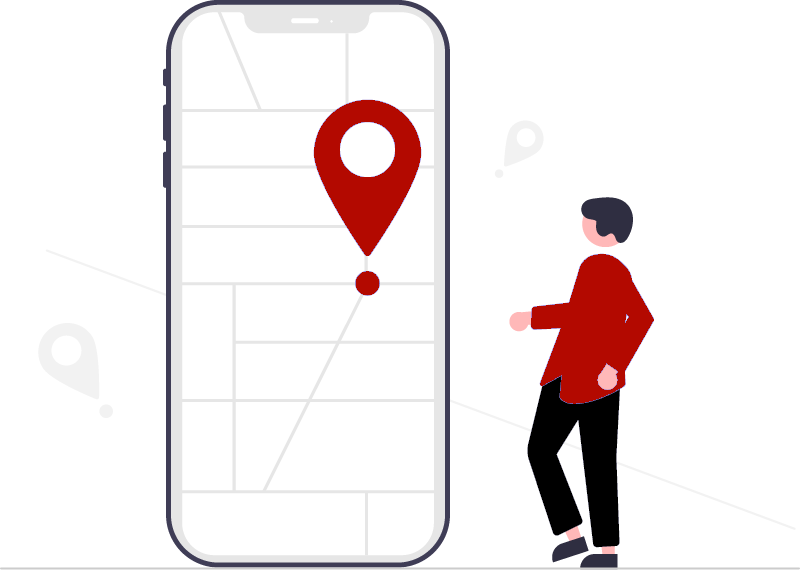
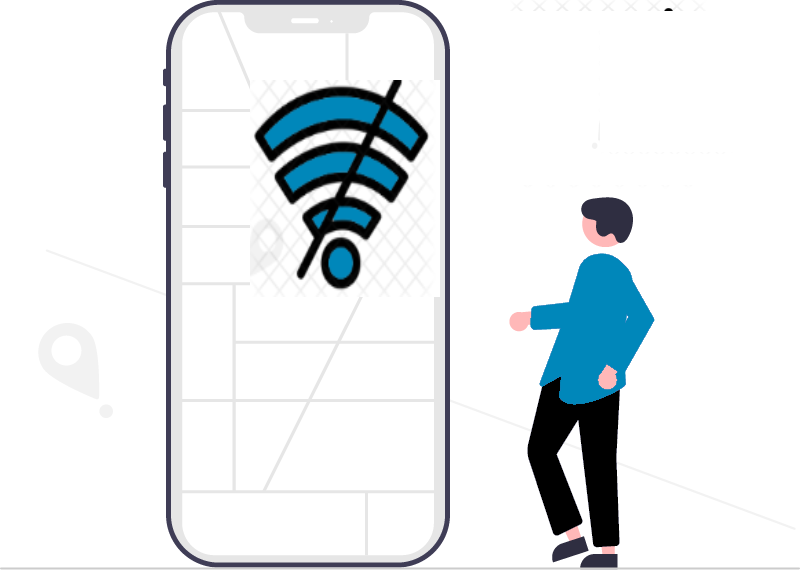
cambio en slides

Changed region(s): [[0.3125, 0.1193, 0.5625, 0.5368], [0.6562, 0.4474, 0.8125, 0.7158]]

diff --git a/src/data/SlideData.tsx b/src/data/SlideData.tsx
@@ -3,18 +3,22 @@ import { Slide } from '../interfaces/appInterfaces';
 
 export const items: Slide[] = [
     {
-        title: 'Localización',
-        desc: 'puedes ver las ubicaciones de nuestras oficinas y nuestros puntos de atencion.',
-        img: require('../assets/slide-1.png')
-    },
-    {
-        title: 'Noticias',
-        desc: 'Puedes enterarte de primera mano  las mas recientes  noticias de nuestra organizacion',
+        title: 'Bienvenido ',
+        desc: 'En estas sección podés cargar, visualizar y editar tarjetas observe, de manera sencilla y desde la comodidad de tu teléfono',
         img: require('../assets/slide-2.png')
     },
     {
-        title: 'Administración',
-        desc: 'Puedes gestionar permisos,ausencias  solucitud de vacaciones y  modificar tus datos personales',
+        title: 'Modo sin conexion',
+        desc: `En el lugar que te encontras no hay conexion a internet... no hay problema podes cargar nuevas tarjetas observe.\
+
+
+Estas se cargaran automaticamente la proxima vez que tengas conexion `,
+        img: require('../assets/slide-1.png')
+    },
+   
+    {
+        title: 'Modo con conexion',
+        desc: 'Podes modificar y/o visualizar las tarjetas que creaste previamente cuando tienes una conexión a internet',
         img: require('../assets/slide-3.png')
     },
 ]

diff --git a/src/screens/SlideScreen.tsx b/src/screens/SlideScreen.tsx
@@ -9,6 +9,7 @@ import { color } from 'react-native-reanimated';
 import { UseAnimation } from '../hooks/UseAnimation';
 import { useNavigation } from '@react-navigation/core';
 import { StackScreenProps } from '@react-navigation/stack';
+import { colors } from '../Themes/DlsTheme';
 //import { ThemeContext } from '../Context/themeContext/ThemeContext';
 
 
@@ -98,7 +99,7 @@ export const SlidesScreen = ({navigation}:Props) => {
                     width:10,
                     height:5,
                     borderRadius:10,
-                    backgroundColor:'rgba(179,9,0,1)'
+                    backgroundColor:colors.dlsBluePrimary,
                     
                     
                 }}
@@ -110,7 +111,7 @@ export const SlidesScreen = ({navigation}:Props) => {
                 }}>
                    <TouchableOpacity style={{
                         flexDirection:'row',
-                        backgroundColor:'rgba(179,9,0,1)',
+                        backgroundColor:colors.dlsBluePrimary,
                         width:120,
                         height:35,
                         borderRadius:20,
@@ -145,7 +146,7 @@ const styles = StyleSheet.create({
     title:{
         fontSize:30,
         fontWeight:'bold',
-        color:'#5856d6'
+       
 
     },
     subtitle:{

diff --git a/src/components/CreateObservePageTwo.tsx b/src/components/CreateObservePageTwo.tsx
@@ -8,6 +8,7 @@ import { CustomSwitchObserve } from './CustomSwitchObserve';
 import { colors } from '../Themes/DlsTheme';
 import { Prompt } from './Prompt';
 import { InputModal } from './InputModal';
+import { RalationchipBtn } from './RalationchipBtn';
 
 interface Props {
     form: objUseForm;
@@ -44,11 +45,14 @@ export const CreateObservePageTwo = ({ form, onChange }: Props) => {
                 <CustomSwitchObserve title="Requiere APS de seguimiento" onChange={onChange} switchType="m38:DL_REQAPSSEG" />
 
                 {form["m38:DL_REQAPSSEG"] === 'Y' &&
+                <View>
                     <Prompt
                         form={form}
                         onChange={onChange}
                         promptType={{ type: 'DLHR_APS' }}
                     />
+                    <RalationchipBtn form={form} />
+                    </View>
                 }
 
                 <CustomSwitchObserve title="Cuasi accidente" onChange={onChange} switchType="m38:DL_CUASIACC" />

diff --git a/src/screens/EmplidObserveScreen.tsx b/src/screens/EmplidObserveScreen.tsx
@@ -76,10 +76,10 @@ export const EmplidObserveScreen = ({ navigation, route }: Props) => {
     }, [])
 
     return (
-        <View style={{ alignItems: 'center', flex: 1, backgroundColor: colors.dlsGrayPrimary }}>
+        <View style={{ alignItems: 'center', flex: 1, backgroundColor:colors.dlsGrayPrimary}}>
             <View style={{position:'absolute',flex:1}}>
                 <Image
-                    source={require('../assets/Logo_DLSNegativo_sf.png')}
+                    source={require('../assets/Logo_DLSNegativo_sf2.png')}
                     style={styles.DLSLogoBG}
                 />
             </View>

diff --git a/src/Themes/DlsTheme.tsx b/src/Themes/DlsTheme.tsx
@@ -52,7 +52,7 @@ export const styles = StyleSheet.create({
 
   },
   DLSLogoBG: {
-    opacity: 0.1,
+    
     width: width,
     height:height,
     resizeMode: 'contain',
